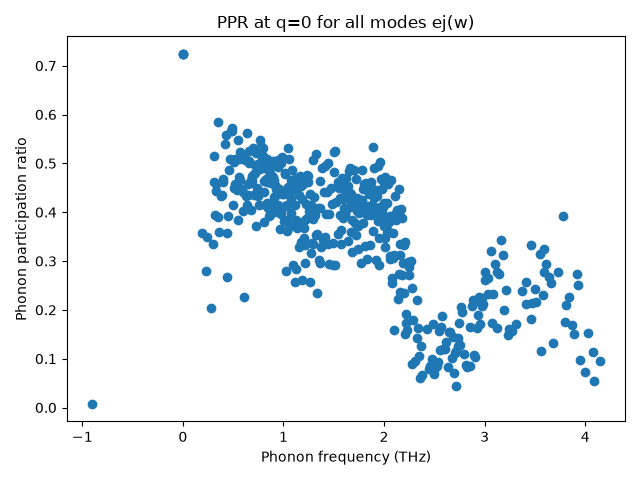
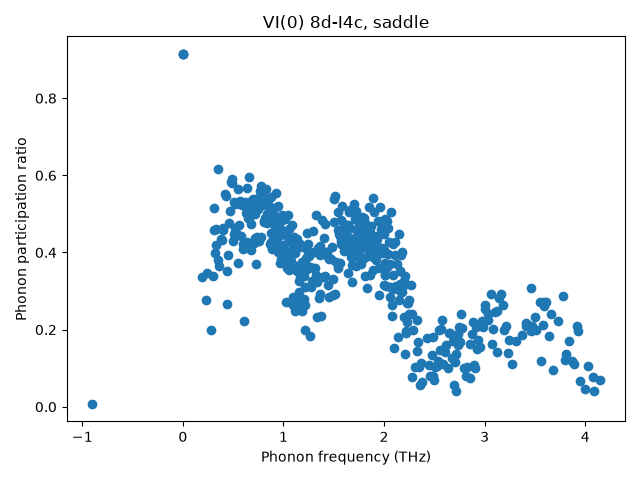
Checking effect of mass on PPR results

diff --git a/migration/saddle/PPR.py b/migration/saddle/PPR.py
@@ -47,7 +47,8 @@ def M1(mass, disp):
     N_atoms = len(disp)
     sum = 0
     for k in range(N_atoms):
-        sum = sum + mass[k]*mod_sq(disp[k])
+        #sum = sum + mass[k]*mod_sq(disp[k])
+        sum = sum + mod_sq(disp[k])
     return sum*sum
 
 
@@ -56,29 +57,46 @@ def M2(mass, disp):
     N_atoms = len(disp)
     sum = 0
     for k in range(N_atoms):
-        sum = sum + (mass[k]*mod_sq(disp[k]))**2
+        #sum = sum + (mass[k]*mod_sq(disp[k]))**2
+        sum = sum + (mod_sq(disp[k]))*(mod_sq(disp[k]))
     return sum  
 
 ## calculate PPR ##
 m = get_mass(data_atoms)
 
-#acoustic modes [0,2] aren't relevant; at q=0 they should all be collective translations
-# so PPR ~ 1
+# very first mode is the unstable negative freq, highly localised on migrating ion
+# wants to move from local max of PES (TS) to local min 
 e0 = get_evec(data_bands, 0)
 
+# acoustic modes [0,2] aren't relevant; at q=0 they should all be collective translations
+# so PPR ~ 1
+e1 = get_evec(data_bands, 1)
+
 # first optical mode, probably more localised? so PPR < 1
-e3 = get_evec(data_bands, 3)
-e400 = get_evec(data_bands, 100)
+e4 = get_evec(data_bands, 4)
 
 p0 = M1(m, e0)/(len(e0)*M2(m, e0))
-p3 = M1(m, e3)/(len(e3)*M2(m, e3))
+p1 = M1(m, e1)/(len(e1)*M2(m, e1))
+p4 = M1(m, e4)/(len(e4)*M2(m, e4))
 
-print("M1 for band 0", ":", M1(m, e0))
-print("N_k*M2 for band 0", ":", len(e0)*M2(m, e0))
-print("PPR for band 0", "at q = 0:", p0)
-print("M1 for band 3", ":", M1(m, e3))
-print("N_k*M2 for band 3", ":", len(e3)*M2(m, e3))
-print("PPR for band 3", "at q = 0:", p3)
+print("PPR for band 1 (unstable)", "at q = 0:", p0)
+print("PPR for band 2 (acoustic)", "at q = 0:", p1)
+print("PPR for band 5 (optical)", "at q = 0:", p4)
+
+# check normalisation of eigenmodes; need to loop over all elements from all atomic contributions
+e0_full = [None]*len(e0)*3
+count = 1
+for k in range(len(e0)):
+    count = count -1
+    for j in range(3):
+        i = k + count
+        #print("i = ", i)
+        e0_full[i] = e0[k][j]
+        #print(e0_full[i])
+        count = count + 1
+#print(e0_full)
+
+print("|e0|^2 = ", mod_sq(e0_full))
 
 # loop over all phonon modes j, plot the PPRs?
 # finally make an Natoms variable, won't be too slow here because not referencing in different scope
@@ -104,7 +122,7 @@ ax1.scatter(freqs, pj, linewidth=1.0)
 ax1.set_xlabel("Phonon frequency (THz)", size="medium")
 ax1.set_ylabel("Phonon participation ratio", size="medium")
 #ax1.legend()
-ax1.set_title("VI(0) 8d-I4c, min")
+ax1.set_title("VI(0) 8d-I4c, saddle")
 fig1.tight_layout()
 fig1.savefig("./PPR_freq.png")
 
@@ -116,6 +134,6 @@ ax2.scatter(modes, pj, linewidth=1.0)
 ax2.set_xlabel("Phonon mode index j", size="medium")
 ax2.set_ylabel("Phonon participation ratio", size="medium")
 #ax1.legend()
-ax1.set_title("VI(0) 8d-I4c, saddle")
+ax2.set_title("VI(0) 8d-I4c, saddle")
 fig2.tight_layout()
 fig2.savefig("./PPR_j.png")
